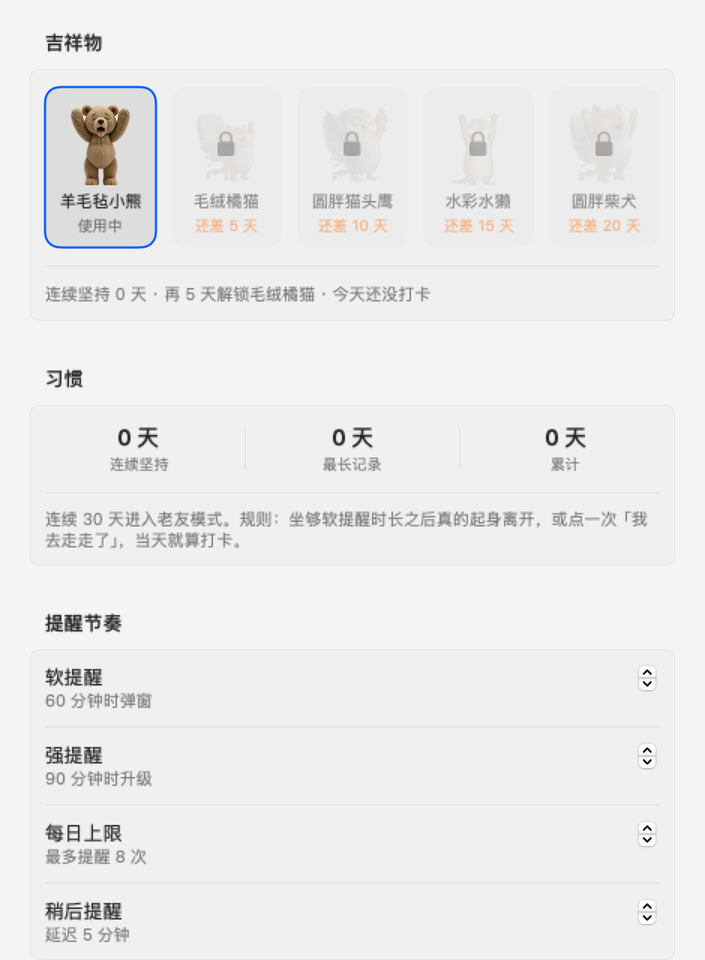
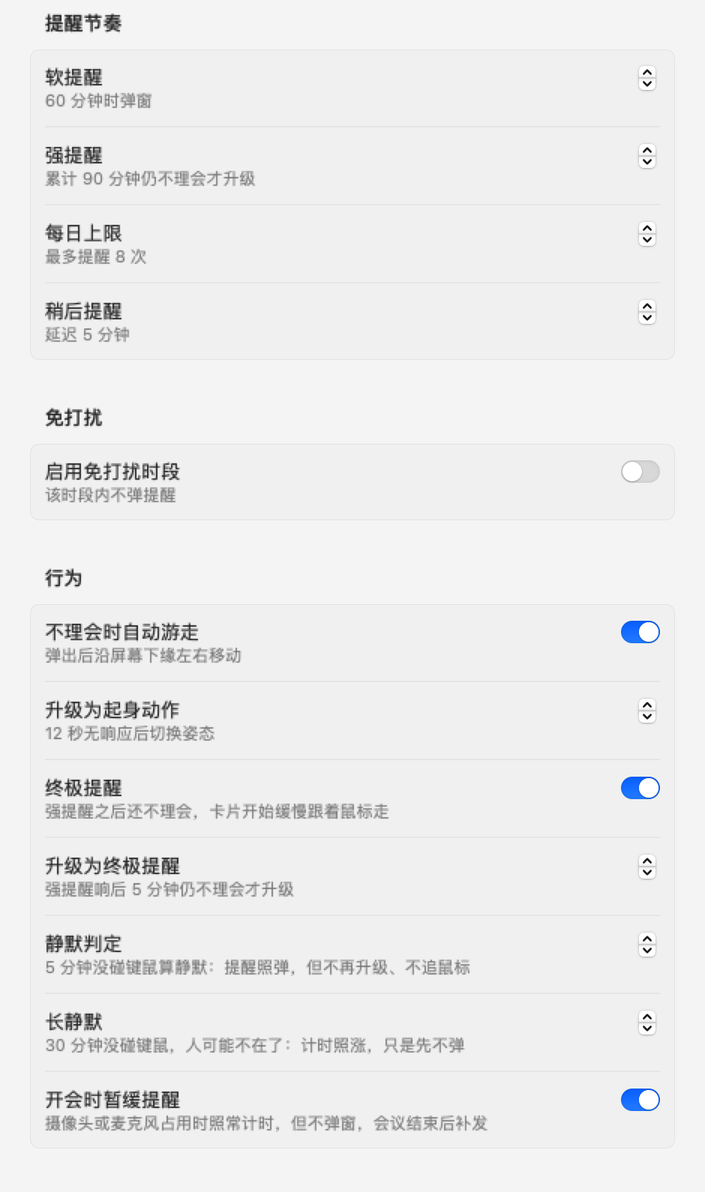
改：去掉宠物底下的圆形色板，整张卡片当背景
删掉头像区那个 126pt 的米色 Circle()。那圈边界会把一张完整卡片切成
「头像区 / 文字区」两块，像贴了张证件照。

顺带给软提醒补底色：原来是近乎纯白 (0.998/0.896/0.990 附近)，圆盘没了
之后白底会和桌面糊成一片，三档里也只剩它「没有颜色」。现在浅蓝
(0.941/0.963/0.996)，三档是一条完整色阶：浅蓝 -> 米橙 -> 粉红。

裁剪从 Circle 改成 RoundedRectangle(18)。不是顺手改的：量过五只素材，
橘猫/小熊/柴犬的包围盒完全在圆内（圆形对它们是空操作），但水獭被裁掉
8.3%（最远越界 18pt）、猫头鹰 2.3%（6.2pt）——这两只是靠 clip 兜住
mascotZoom 放大后的溢出。直接删 clip 会让水獭压到卡片边缘、猫头鹰顶到标题。

水獭的 zoom 1.45 -> 1.10。原来靠圆形切掉左右各 18pt 的溢出，圆没了
切出来是一条直边。上限就是 126/112 ≈ 1.12。

文档配图全部重出（否则文档在骗人）：
- card-soft-vs-strong.png（两张）-> card-tiers.png（三张）
- settings.png 重出并裁到「提醒节奏 + 行为」段，整张表单 1339pt 太高
- card-routine.gif 用 GifShot 重录 100 帧 / 1.4MB
  踩坑：GifShot 的 style 参数只决定动作库、不决定形象，形象取
  Prefs.mascotStyle（裸二进制读到本机真实偏好）。第一次录出来是
  「橘猫的身体 + 猫头鹰的动作」，已写进开发指南。

已知未修：b/sit.png 素材左边本身就被切了（x=0 那列 242/512 行不透明），
以前被圆形伪装成肖像边界，现在是一条直边。要修只能重出 b。

测试：run_tests.sh 102 项、run_anim_test.sh 全过。版本 0.12.8 / 25。

diff --git a/Sources/MascotCard.swift b/Sources/MascotCard.swift
@@ -147,7 +147,10 @@ struct MascotCard: View {
         switch model.urgency {
         case .ultimate: return Color(red: 0.998, green: 0.945, blue: 0.925)
         case .strong: return Color(red: 1.0, green: 0.965, blue: 0.918)
-        case .soft: return Color(red: 0.998, green: 0.996, blue: 0.990)
+        // 软提醒原来是近乎纯白（0.998/0.996/0.990），去掉宠物底下的圆盘之后
+        // 白底会把整张卡片和桌面糊成一片。给一层极浅的冷色：和主按钮的蓝
+        // 同色系、不抢注意力，又不至于像「没有颜色」。
+        case .soft: return Color(red: 0.941, green: 0.963, blue: 0.996)
         }
     }
 
@@ -208,10 +211,14 @@ struct MascotCard: View {
     /// 各形象构图比例不同，塞进正方形头像区后的视觉占比差别很大。
     /// B 是横卧构图（宽高约 2:1），等比缩放后高度只用一半，需要放大取景。
     /// D 的坐姿帧里椅子的五条腿占掉了下半张图，不放大的话猫头鹰本体
-    /// 只有 126pt 圆圈的一半，比橘猫显小一圈。
+    /// 只有盒子的一半高，比橘猫显小一圈。
+    ///
+    /// **上限是 126/112 ≈ 1.12。** 宠物底下那个圆盘去掉之后，「放大到越界、
+    /// 让圆形把它裁掉」这条路就走不通了——裁出来是一条直边，像被刀切过。
+    /// B 原来 1.45（162pt 宽，左右各越界 18pt），现在 1.10，几乎正好填满盒子。
     private var mascotZoom: CGFloat {
         switch prefs.mascotStyle {
-        case "b": return 1.45
+        case "b": return 1.10
         case "d": return 1.30
         case "a": return 1.0
         default: return 1.0
@@ -274,10 +281,10 @@ struct MascotCard: View {
             // Button 会被 AppKit 识别为控件，优先级高于背景拖动。
             Button(action: handlePokeTap) {
                 ZStack {
-                    Circle()
-                        .fill(Color(red: 0.988, green: 0.957, blue: 0.910))
-                        .frame(width: 126, height: 126)
-
+                    // 这里原来垫了一个 126pt 的米色圆盘当「头像底」。
+                    // 去掉之后宠物直接坐在卡片底色上，整张卡片就是它的背景 ——
+                    // 圆盘那一圈边界本来就是多余的，只会把一张整卡切成
+                    // 「头像区 / 文字区」两块。
                     ZStack {
                         if let image = image(for: displayPose) {
                             Image(nsImage: image)
@@ -320,8 +327,16 @@ struct MascotCard: View {
                     .offset(mascotOffset)
                 }
                 .frame(width: 126, height: 126)
-                .clipShape(Circle())
-                .contentShape(Circle())
+                // 裁成圆角矩形而不是圆形。
+                //
+                // 圆形裁剪对 a 橘猫 / c 小熊 / e 柴犬 是空操作（素材包围盒完全在圆内），
+                // 但 b 水獭被裁掉 8.3%（zoom 1.45，最远越界 18pt）、
+                // d 猫头鹰 2.3%（6.2pt）—— 这两只是靠这个 clip 在兜住缩放后的溢出，
+                // 直接删掉会让水獭横向压到卡片边缘、猫头鹰往下顶到标题。
+                // 换成圆角矩形：既不再把宠物切出一个圆形的「头像一个」，
+                // 又保留了「不许溢出盒子」这层保护。
+                .clipShape(RoundedRectangle(cornerRadius: 18, style: .continuous))
+                .contentShape(Rectangle())
             }
             .buttonStyle(BareButtonStyle())
             .padding(.top, 2)

diff --git a/CHANGELOG.md b/CHANGELOG.md
@@ -6,6 +6,55 @@
 
 ---
 
+## v0.12.8 · 2026-10-28
+
+**去掉宠物底下的圆形色板，整张卡片就是它的背景。** 顺手给软提醒也补了卡片底色。
+
+### 改了什么
+
+- 删掉头像区那个 126pt 的米色 `Circle()`。它本来只是给宠物垫一层「头像底」，但那圈边界会把一张完整卡片切成「头像区 / 文字区」两块，视觉上像贴了张证件照
+- 软提醒的卡片底色从近乎纯白 `(0.998, 0.996, 0.990)` 改成极浅冷色 `(0.941, 0.963, 0.996)`。圆盘去掉之后白底会和桌面糊成一片，而且三档里只有软提醒「没有颜色」，反而显得这一档是没设计过的
+- 现在三档是一条完整的色阶：浅蓝 → 米橙 → 粉红，宠物直接坐在上面
+
+### 裁剪形状从圆改成圆角矩形
+
+不是顺手改的，是必须改。动手前先量了五只形象的素材在 126pt 盒子里的实际裁剪情况：
+
+| 形象 | 被圆形裁掉的像素 | 最远越界 |
+|---|---|---|
+| a 橘猫 | 0 | — |
+| c 小熊 | 0 | — |
+| e 柴犬 | 0 | — |
+| b 水獭 | 8.3% | 18.0pt |
+| d 猫头鹰 | 2.3% | 6.2pt |
+
+橘猫、小熊、柴犬的包围盒完全在圆内，圆形对它们是空操作。但水獭和猫头鹰是靠这个 clip 在兜住 `mascotZoom` 放大后的溢出——直接删掉 clip，水獭会横向压到卡片边缘、猫头鹰会往下顶到标题。
+
+所以换成 `RoundedRectangle(cornerRadius: 18)`：不再把宠物切出一个圆形的「头像一个」，同时保留「不许溢出盒子」这层保护。
+
+### 水獭的放大倍率降到 1.10
+
+`b` 原来是 1.45（162pt 宽塞进 126pt 盒子，左右各越界 18pt），靠圆形把溢出切掉。圆没了之后这条路走不通——切出来是一条直边，像被刀切过。现在 1.10，几乎正好填满盒子。
+
+**上限就是 126/112 ≈ 1.12**，以后调这个值别超。
+
+### 顺带发现：水獭的素材本身是切的
+
+`Resources/mascots/b/sit.png` 左边一整列有 242/512 个像素是不透明的——AI 出图时身体画出了画布。这不是这次改动造成的，之前圆形裁剪把它伪装成了「圆形肖像」的边界。要修只能重出 b 的素材，已记进路线图。
+
+### 文档配图全部重出
+
+代码改了但 README 还挂着旧图，等于文档在骗人：
+
+- `docs/images/card-soft-vs-strong.png`（两张）→ **`card-tiers.png`（三张，浅蓝/米橙/粉红）**
+- `docs/images/settings.png` 重出，并裁到「提醒节奏 + 行为」这一段——设置项加到 15 行之后整张表单有 1339pt 高，全塞进 README 就是一大段滚动
+- `docs/images/card-routine.gif` 用 `Tools/GifShot` 重录（100 帧 / 10s / 1.4MB）
+- 录 GIF 时踩到一个坑，已写进开发指南：`GifShot` 的 `style` 参数**只决定动作库，不决定形象**，形象取的是 `Prefs.mascotStyle`（裸二进制会读到本机真实偏好）。第一次录出来是「橘猫的身体 + 猫头鹰的动作」，橘猫没有振翅，那几下退化了
+
+### 还没换的
+
+`docs/images/gaze-at-real-size.png` 里还是带圆盘的旧卡片。它是 D-20 眼睛跟随的配图，内容（四向视线对比）没变，只是卡片样式过时。`Preview` 工具没暴露 `model.gaze`，要重出得先给它加参数，先留着。
+
 ---
 
 ## v0.12.7 · 2026-10-28

diff --git a/docs/ROADMAP.md b/docs/ROADMAP.md
@@ -128,6 +128,8 @@ v1.0 发中文版之后的第一版。这一版有明确的活：**英文界面*
 | 关机一夜回来从 0 开始 | 落盘只续 10 分钟内的快照——久到那个程度，我们真的不知道你中间在不在 | 这是故意的：归零比编造诚实（[D-23](DECISIONS.md#d-23--落盘只续数字不补间隙)） |
 | 人走了但屏幕没熄、手也没停过（比如外接键鼠被动过）→ 会被算成坐着 | 没有摄像头/红外，无法直接确认座位上有没有人 | 不做生物检测是产品选择，见下方「明确不做」 |
 | 坐 ↔ 站之间仍有一步硬切 | 素材只有「坐下」的中间态 `sitdown`，没有能用的「起身」帧。`sit` 里动物坐在椅子中央，`stand` 里动物站在椅子右侧，切换时位移和起身同时发生。橘猫出过一版 `standup`（v0.12.6），实机读起来是「蹲下去」不是「站起来」，已撤下 | 靠缩短收尾时长（0.30 → 0.20s）让硬切不刺眼；重出图见 v0.13.0 待办 |
+| 水獭素材左边被切 | `b/sit.png` 在 x=0 这一列有 242/512 行是不透明的——AI 出图时身体画出了画布。v0.12.8 之前宠物底下垫着圆盘，圆形裁剪把它伪装成「圆形肖像」的边界；圆盘去掉后就是一条直边 | 换回其它形象；或重出 b 的素材（出图时要求「完整入画、四周留白」） |
+| `docs/images/gaze-at-real-size.png` 是旧卡片样式 | 图里还是带圆盘的卡片。内容是四向视线对比，结论没变，只是样式过时 | `Preview` 工具没暴露 `model.gaze`，要重出得先加参数 |
 | 动作只有关键姿态，没有真正的中间帧 | AI 出图的成本与一致性风险决定了这一点。一帧关键姿态 + 停顿节奏拼出「动」的错觉 | 这是 2D 逐帧的常规做法，不算缺陷；但要求「真的流畅」就得做补间，见「更远」 |
 
 ---

diff --git a/docs/DEVELOPMENT.md b/docs/DEVELOPMENT.md
@@ -323,7 +323,7 @@ swiftc -O -target arm64-apple-macos13.0 -framework AppKit -framework SwiftUI \
   Sources/MascotCard.swift Sources/ReminderPanel.swift \
   Tools/GifShot/main.swift -o /tmp/gs/run
 cp -R Resources/mascots /tmp/gs/
-/tmp/gs/run d 100 0.1 /tmp/gifshot full
+/tmp/gs/run a 100 0.1 /tmp/gifshot full   # 参数要和 Prefs.mascotStyle 一致，见下
 
 # ② 拼 GIF
 python3 Tools/make_hero_gif.py /tmp/gifshot docs/images/card-routine.gif
@@ -331,6 +331,7 @@ python3 Tools/make_hero_gif.py /tmp/gifshot docs/images/card-routine.gif
 
 两个必须知道的点：
 
+- **`style` 参数只决定动作库，不决定形象。** 卡片贴的图取的是 `Prefs.shared.mascotStyle`，而裸可执行文件用的 `UserDefaults.standard` 会读到**本机真实偏好**。两者不一致时录出来就是「橘猫的身体 + 猫头鹰的动作」（猫头鹰没有出拳，那几下会退化成 `up`/`stand`）。录之前先确认参数和偏好是同一只。
 - **不能用 `WindowShot` 的 `cacheDisplay` 抓 GIF**。它抓的是**模型值**，而待机层的呼吸/摆动全是 `repeatForever` 的 CA 插值——模型值永远不变，抓出来只有姿势切换、中间一片静止，做成 GIF 比真实效果还差。`GifShot` 改用 `CGWindowListCreateImage` 读窗口合成结果，插值状态才算数（抓自己的窗口不需要屏幕录制权限）。
 - **`ReminderModel.visible` 默认是 `false`**，而待机动画在 `onAppear` 里要靠它才启动。测试工具忘了设这一行，抓出来的就是幻灯片。设了之后帧间差异立刻从「大量 0」变成每帧都有几百到几千像素。
 

diff --git a/README.md b/README.md
@@ -71,7 +71,7 @@
 
 「越来越烦」本身就是提醒强度的表达。不做全屏遮盖（那样会打断你），也不做静音轮播。
 
-![软提醒与强提醒](docs/images/card-soft-vs-strong.png)
+![软提醒、强提醒、终极提醒三档](docs/images/card-tiers.png)
 
 **3. 会开会就闭嘴**
 
@@ -156,7 +156,7 @@ open 歇会儿.app
 
 ## 设置项
 
-![设置界面](docs/images/settings.png)
+![设置界面：提醒节奏与行为](docs/images/settings.png)
 
 | 分组 | 项目 | 默认值 | 说明 |
 |---|---|---|---|
@@ -267,6 +267,7 @@ A：短期内不会。这个项目的核心是一堆 macOS 专有行为（NSPane
 - **屏幕设成「永不休眠」时**，熄屏信号永远拿不到。人真走了，累计会一直涨，回来手一动就补弹一次。要走开请手动「暂停 1 小时」
 - 素材是「AI 生成 + 脚本对齐」的产物，不是手绘。每个动作只有 1 帧关键姿态，靠时序和停顿做「动起来」的错觉，没有真正的补间
 - **坐 ↔ 站之间还有一步硬切**：`sit` 里动物坐在椅子中央，`stand` 里站在椅子右侧，切换时位移和起身同时发生。试过补一帧「起身到一半」，读起来更像蹲下去，撤回了。靠压短这一帧的时长让它不明显
+- **水獭（`b`）的素材左边是切的**：出图时身体画出了画布，那张图的左边缘有一条直边。其它四只没有这个问题
 - 喝水提醒还没做（在路线图里）
 - 界面只有中文
 
